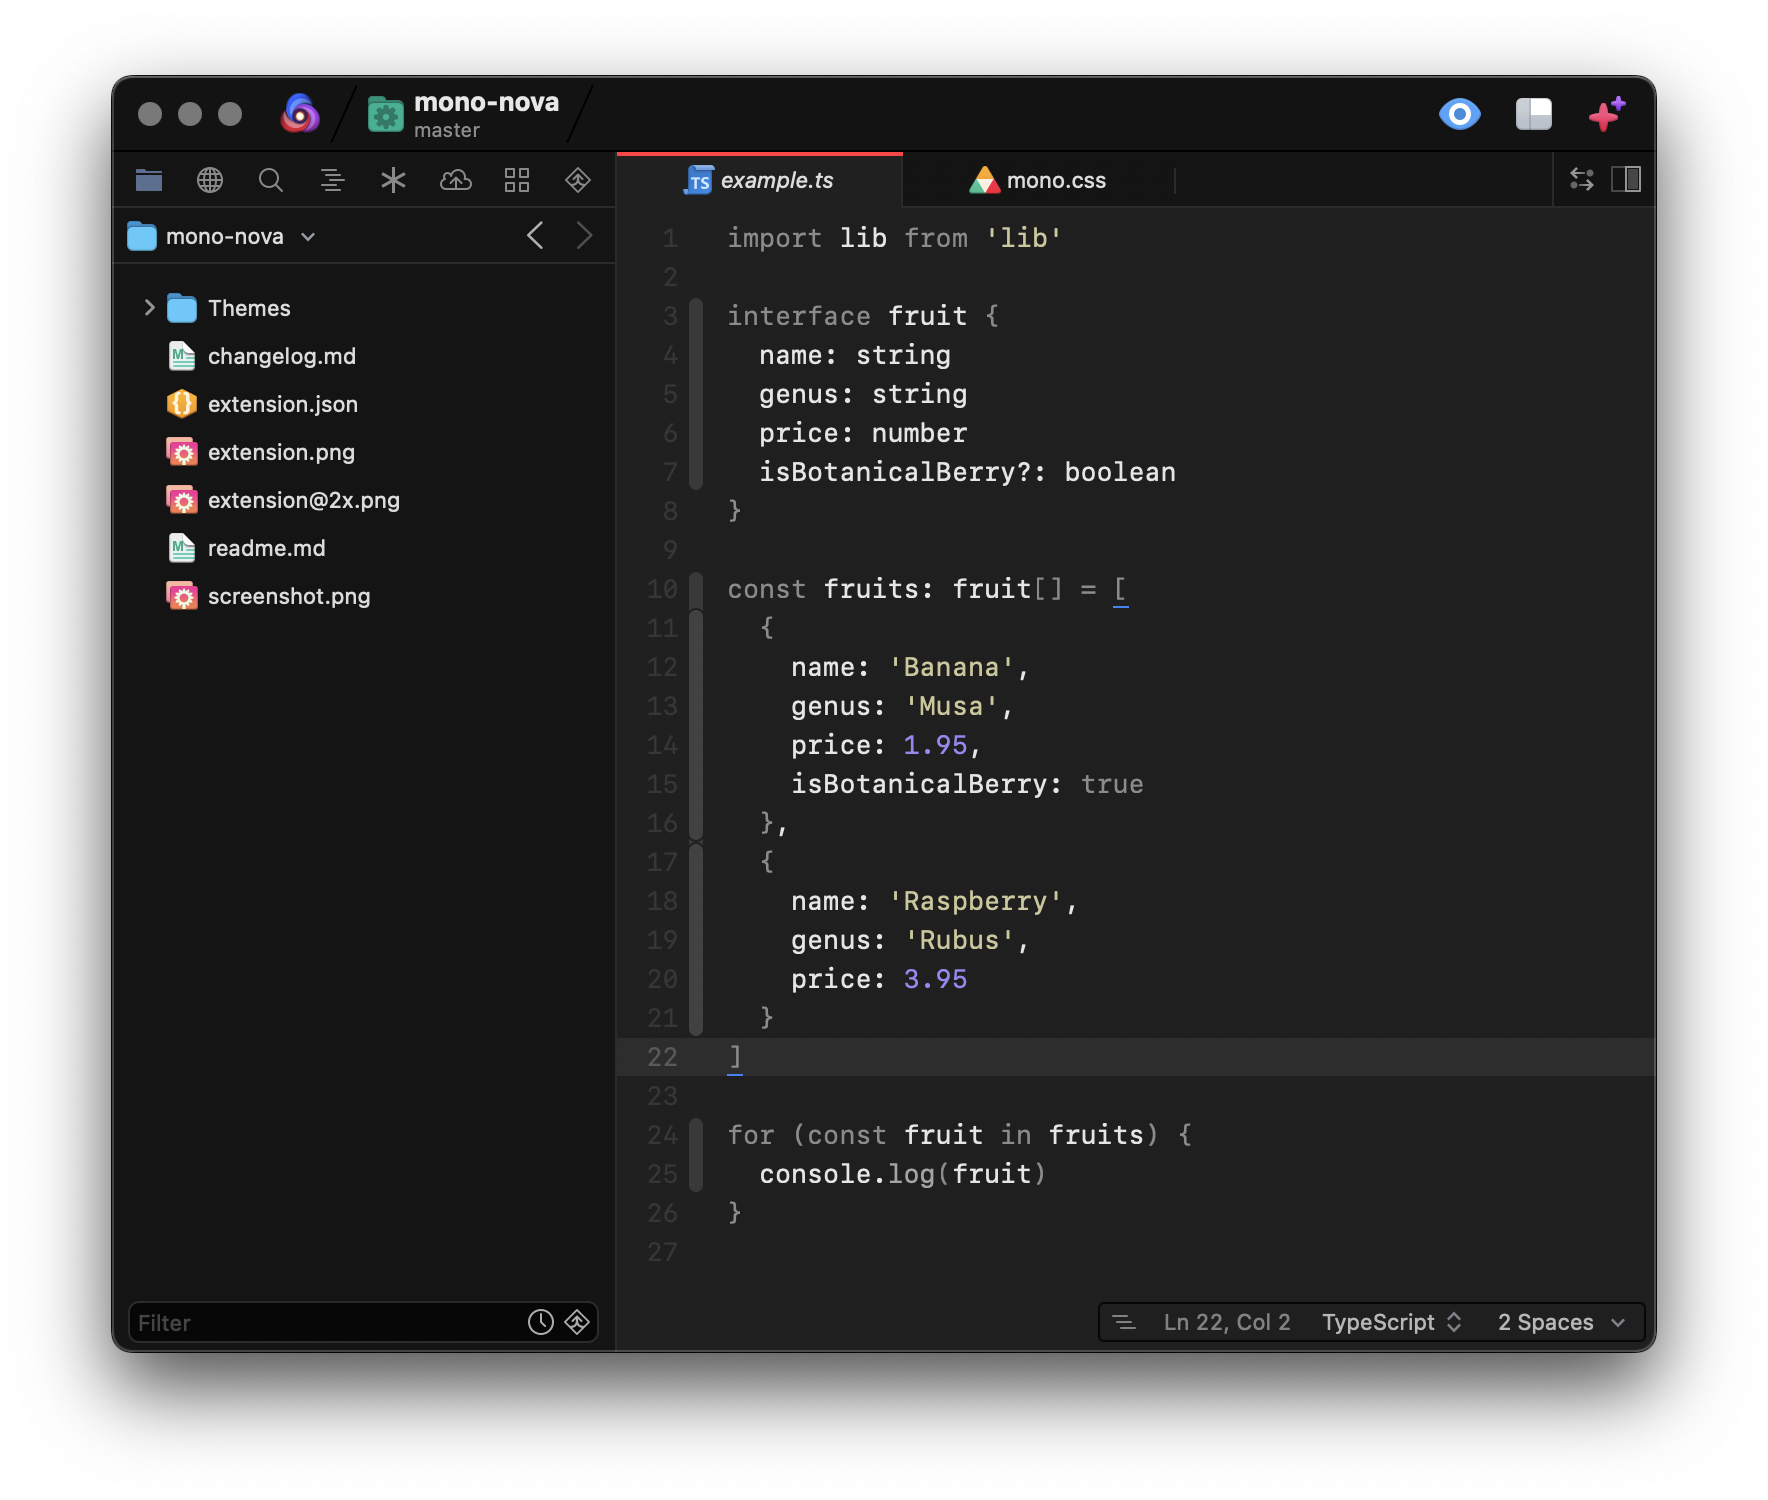
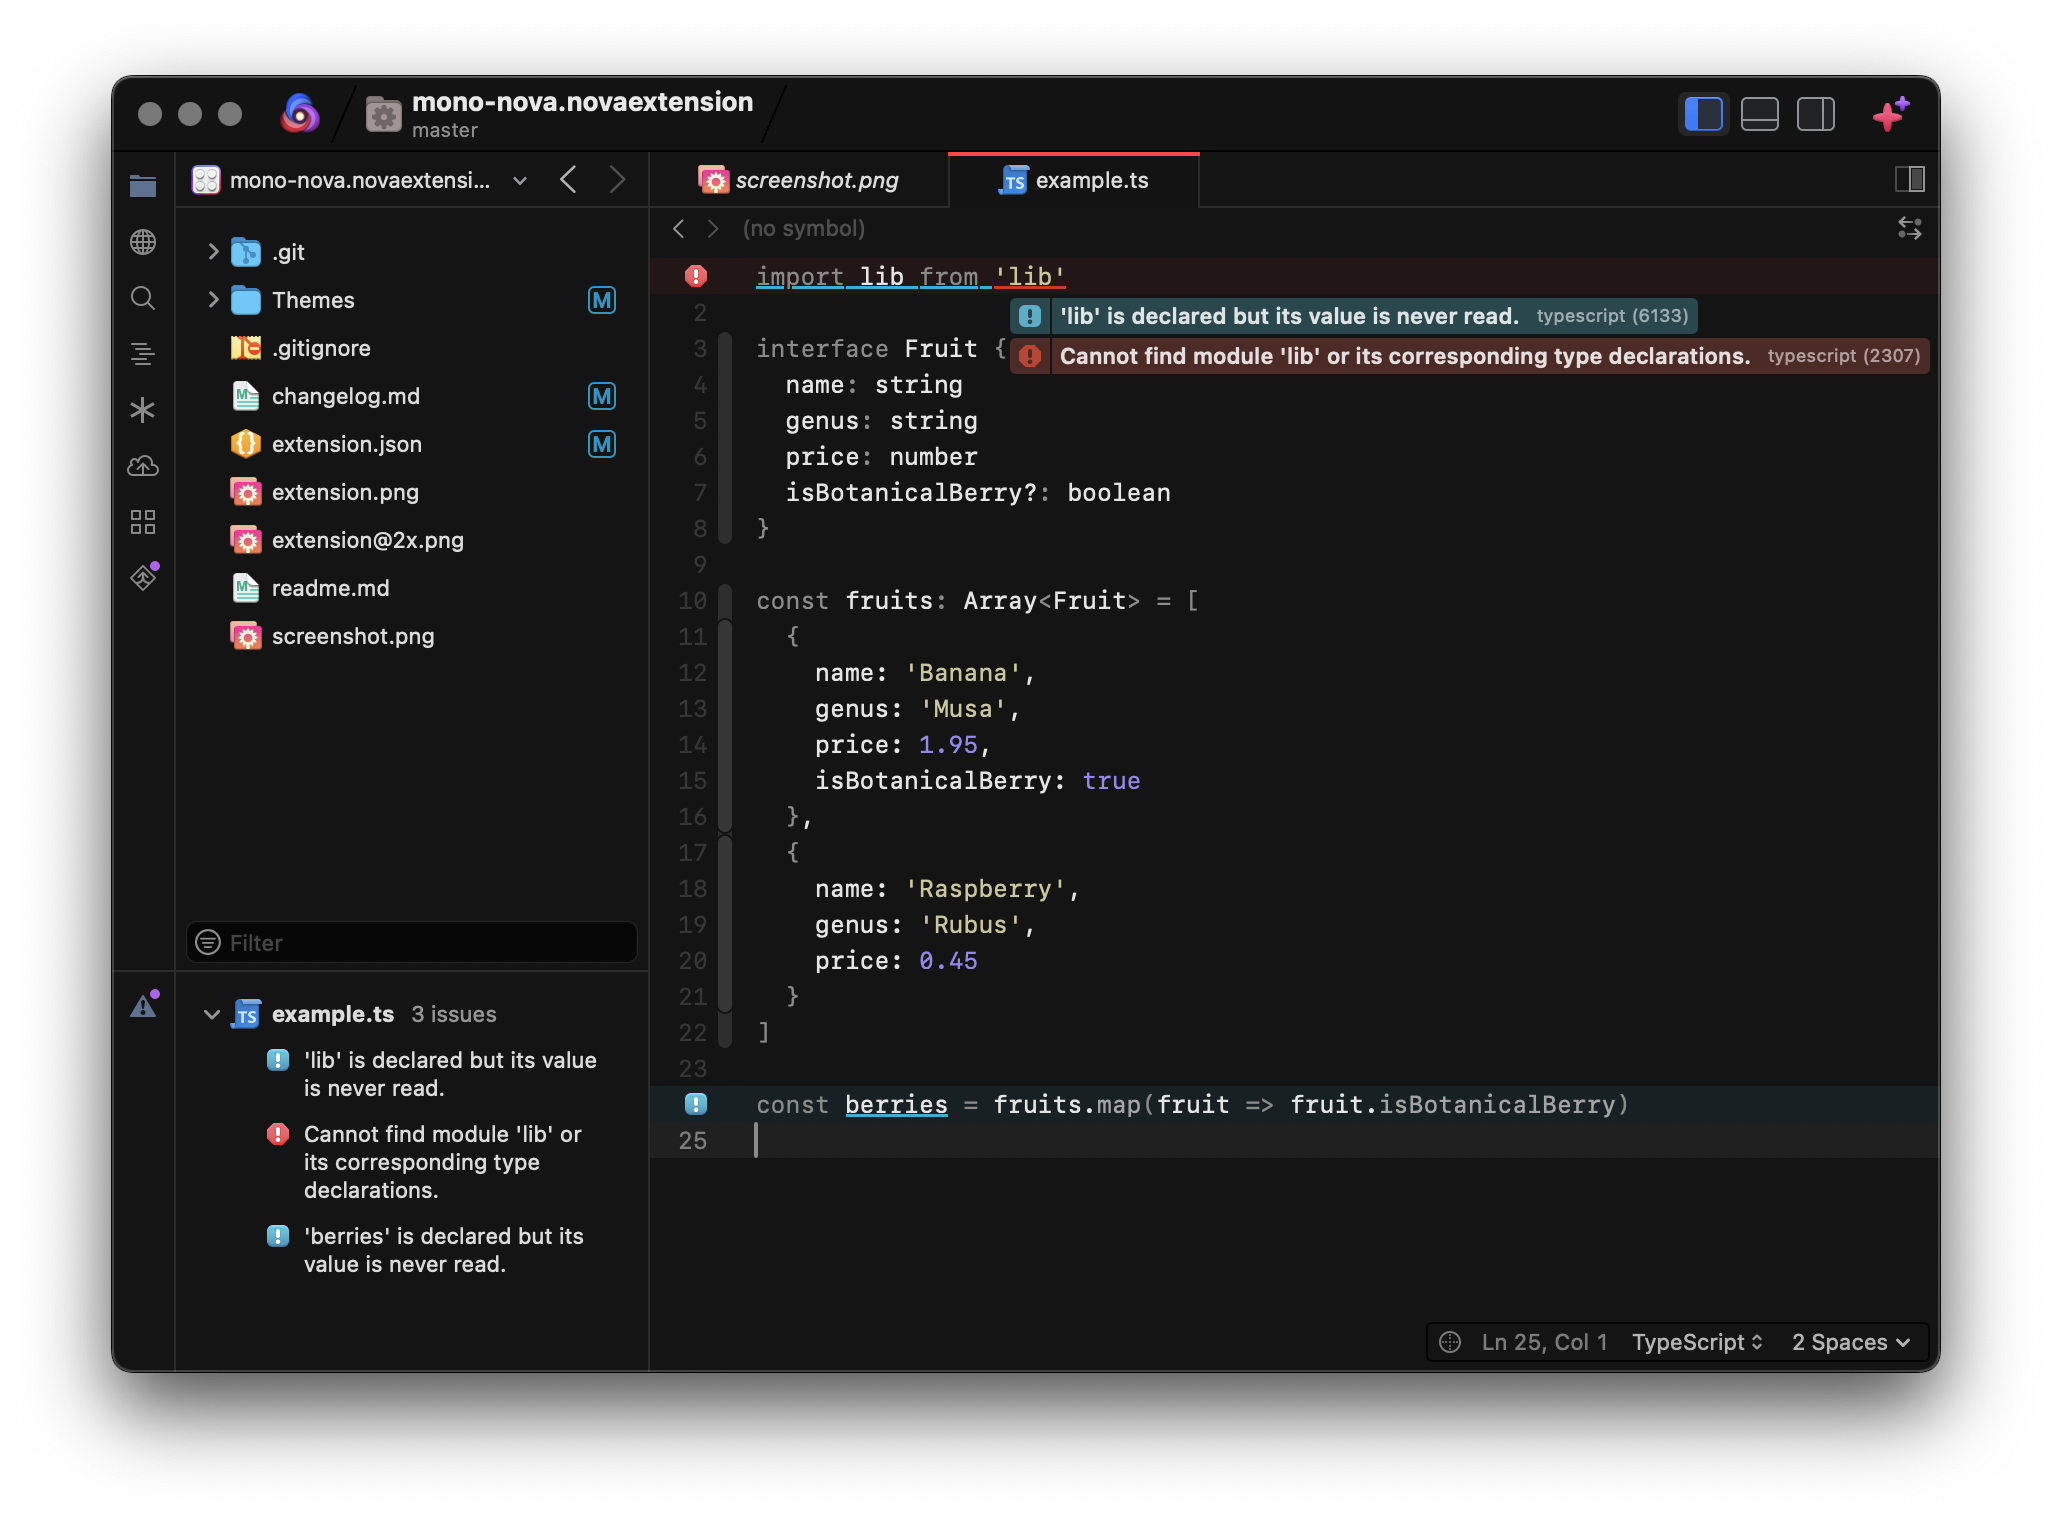
make it blacker

diff --git a/Themes/mono.css b/Themes/mono.css
@@ -48,7 +48,7 @@ meta.accent {
  * Document styles
  */
 meta.document {
-  background-color: hsb(0, 0%, 10%);
+  background-color: hsb(0, 0%, 6%);
   border-color: hsb(0, 0%, 0%);
 }
 
@@ -73,7 +73,7 @@ meta.text.selected {
 
 /* Cursor */
 meta.cursor {
-  background-color: hsb(0, 0%, 16%);
+  background-color: hsb(0, 0%, 10%);
 }
 
 /* Indentation Guides */
@@ -85,7 +85,7 @@ meta.gutter {
   color: hsb(0, 0%, 20%);
 }
 meta.gutter.selected {
-  color: hsb(0, 0%, 35%);
+  color: hsb(0, 0%, 50%);
 }
 
 /*

diff --git a/changelog.md b/changelog.md
@@ -1,3 +1,7 @@
+## 0.0.5
+
+Got any blacker?
+
 ## 0.0.4
 
 1. Remove italic styling on function arguments.  
